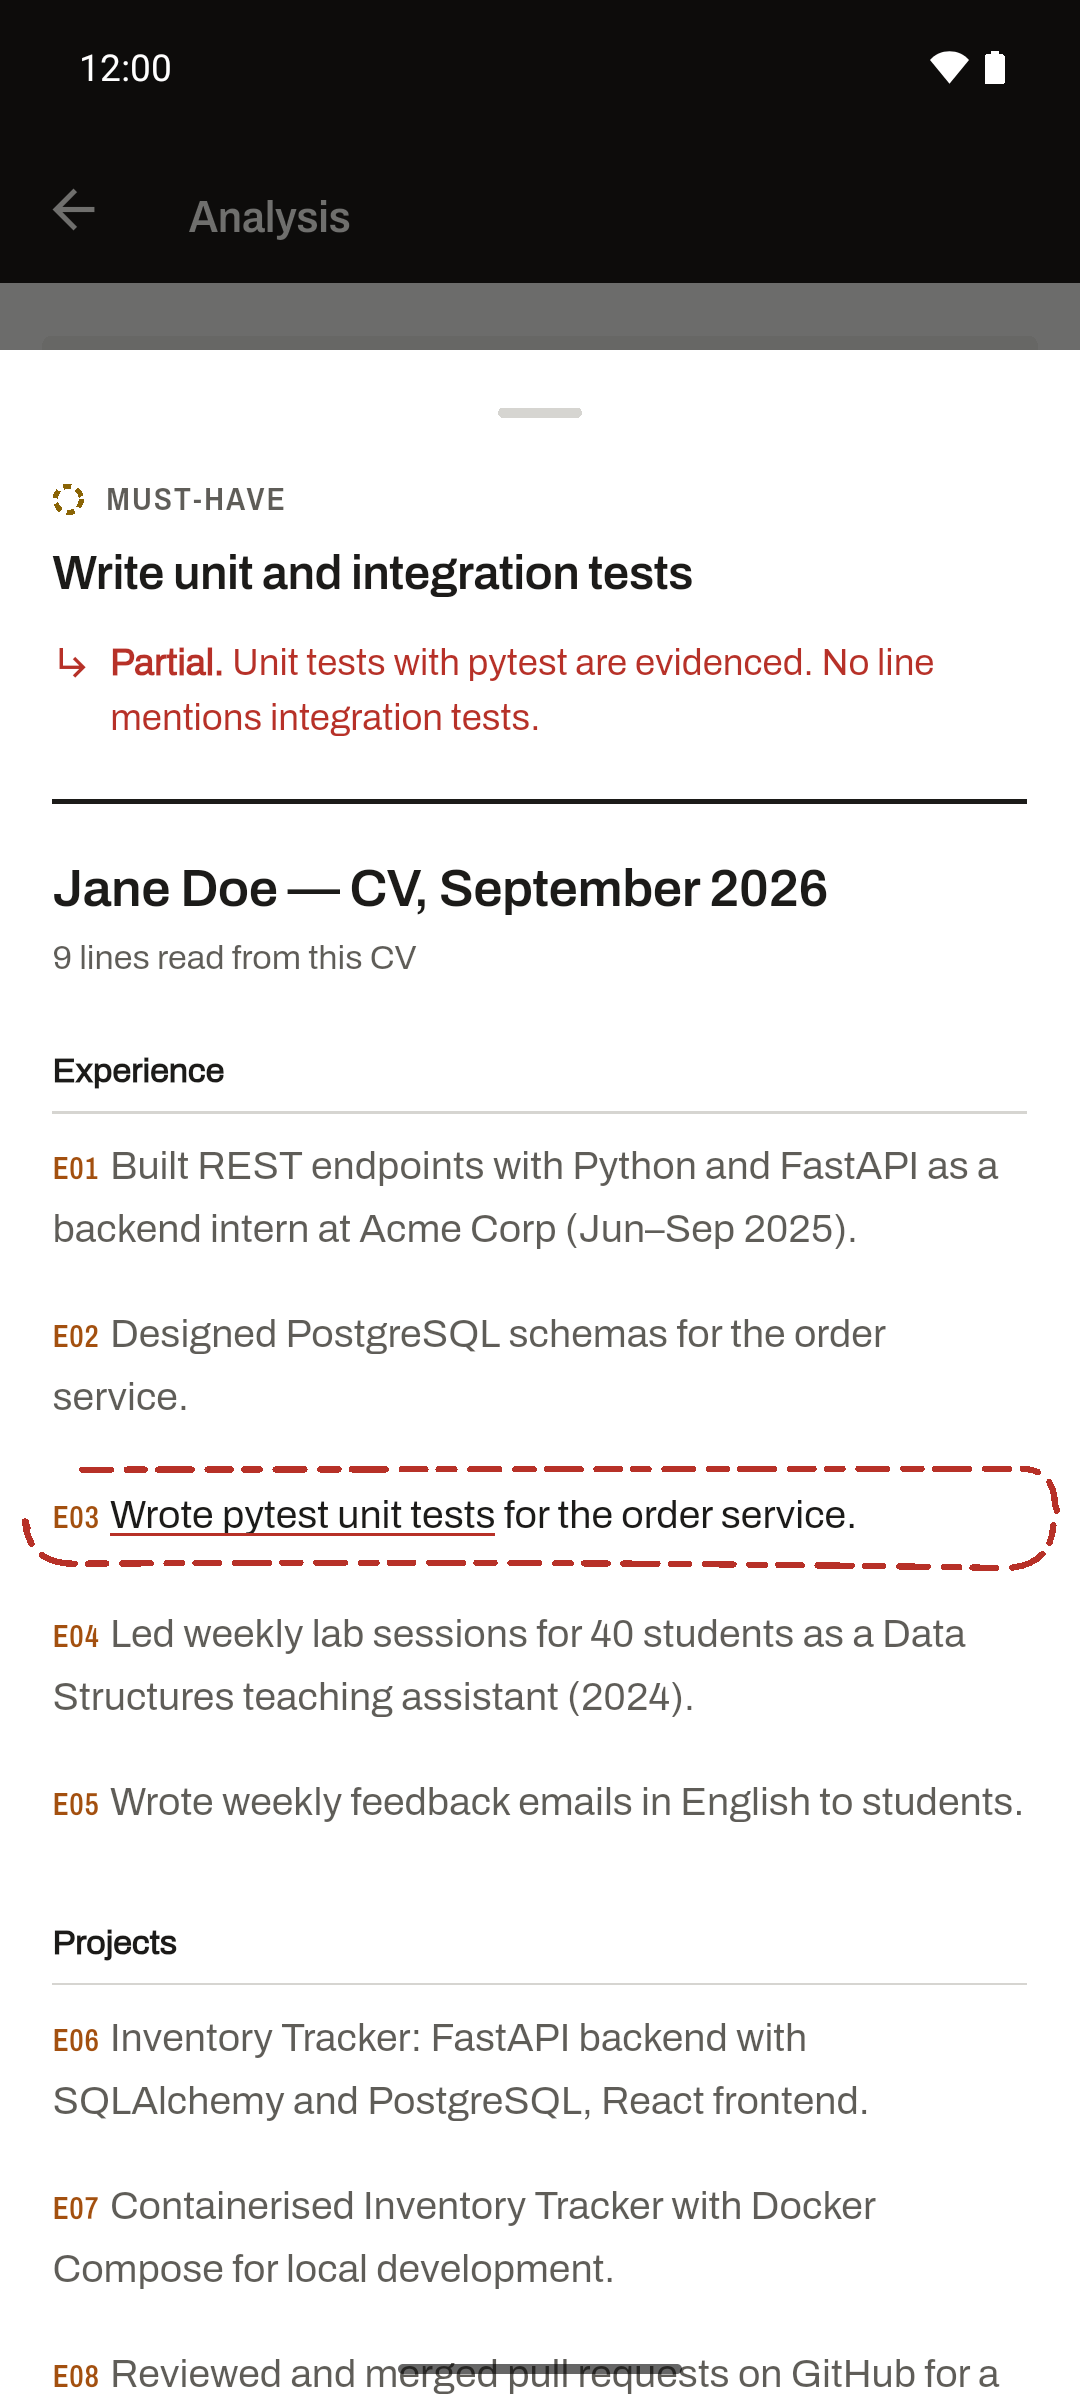
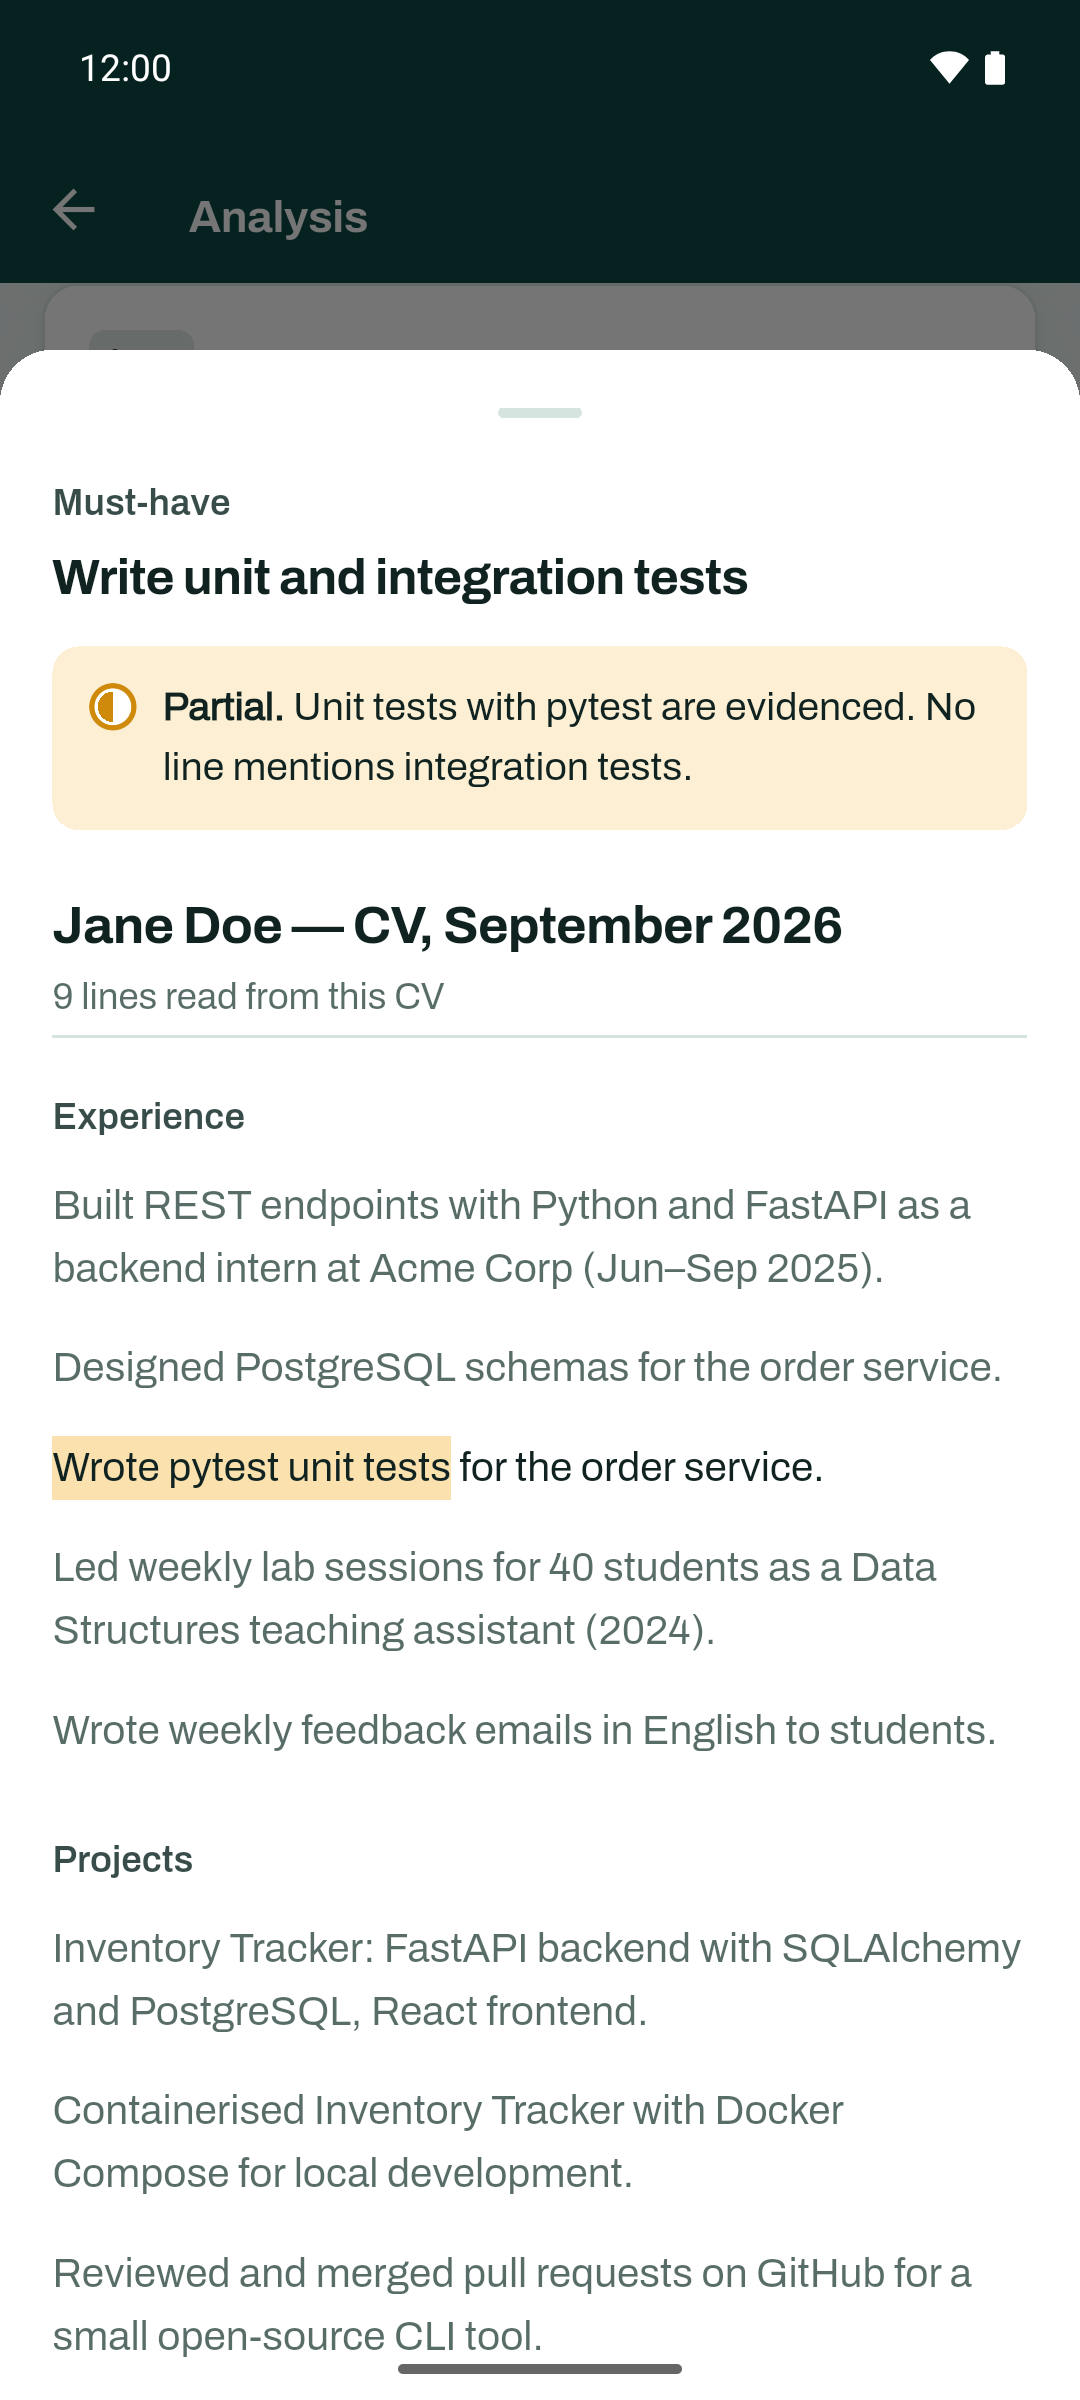
docs: retake the README screenshots in the teal design
- Web: the sample result and a new close-up of the requirements beside the CV with the highlighted evidence
- Android: the sample result, the CV bottom sheet and a real Turkish analysis
- New analysis with the start card; the design line now describes the teal system

diff --git a/README.md b/README.md
@@ -6,18 +6,20 @@ Instead of an unexplained "87% fit", every judgement points at the CV lines it r
 
 **Live demo:** [ai-career-assistant-seven-delta.vercel.app](https://ai-career-assistant-seven-delta.vercel.app) opens the sample result without an account. Register to run the fictional sample CV and posting live. The API runs on a free tier that sleeps when idle, so the first request after a quiet spell can take about a minute, and an analysis can take a couple of minutes when the free AI models are busy.
 
-![Web: the sample result. Requirements on the left, the CV sheet with the supporting lines circled in the middle, what to fix on the right.](docs/screenshots/web-result.png)
+![Web: the sample result. The score with its fit level and a bar of every requirement, a short summary, and what to fix first as priority cards.](docs/screenshots/web-result.png)
+
+![Web: every requirement with its status beside the CV. The selected requirement's reason is pinned on the CV and the words that support it are highlighted.](docs/screenshots/web-evidence.png)
 
 <p>
-  <img src="docs/screenshots/mobile-result.png" width="250" alt="Android: result with the summary band and what to fix first">
-  <img src="docs/screenshots/mobile-cv-sheet.png" width="250" alt="Android: the CV sheet in a bottom sheet with the supporting lines circled">
+  <img src="docs/screenshots/mobile-result.png" width="250" alt="Android: the sample result with the score, the summary and the requirement bar">
+  <img src="docs/screenshots/mobile-cv-sheet.png" width="250" alt="Android: the CV in a bottom sheet with the requirement's reason and the supporting words highlighted">
   <img src="docs/screenshots/mobile-result-tr.png" width="250" alt="Android: a Turkish analysis in the Turkish interface">
 </p>
 
 <details>
 <summary>More screens</summary>
 
-![Web: new analysis, filled with the fictional sample. A saved CV is picked on the left, the posting is pasted on the right.](docs/screenshots/web-new-analysis.png)
+![Web: new analysis, filled with the fictional sample. A saved CV is picked, the posting is pasted beside it, and a card under the CV names what will be compared.](docs/screenshots/web-new-analysis.png)
 
 </details>
 
@@ -84,7 +86,7 @@ services/api    FastAPI backend: auth, documents, AI pipeline, persistence
 - **Backend:** Python 3.12+, FastAPI, SQLAlchemy 2, Alembic, PostgreSQL. Analyses run as background tasks; clients poll until they finish (the mobile app pauses polling in the background).
 - **AI:** Google Gemini free tier for structured LLM output and embeddings, behind a provider interface.
 - **Auth:** email/password with bcrypt and JWT bearer tokens; every query is scoped to the signed-in user.
-- **Design:** one visual system for both clients ("the editor's contact sheet": paper on a light table, a red grease pencil for the editor's marks). Status is carried by mark shape (filled disc, dashed ring, struck square), never by colour alone.
+- **Design:** one visual system for both clients (a deep teal brand band, white cards on a pale teal ground, green / amber / red for matched / partial / missing). Status is also carried by the icon's shape (check, half disc, cross), never by colour alone.
 
 ## Key decisions
 
